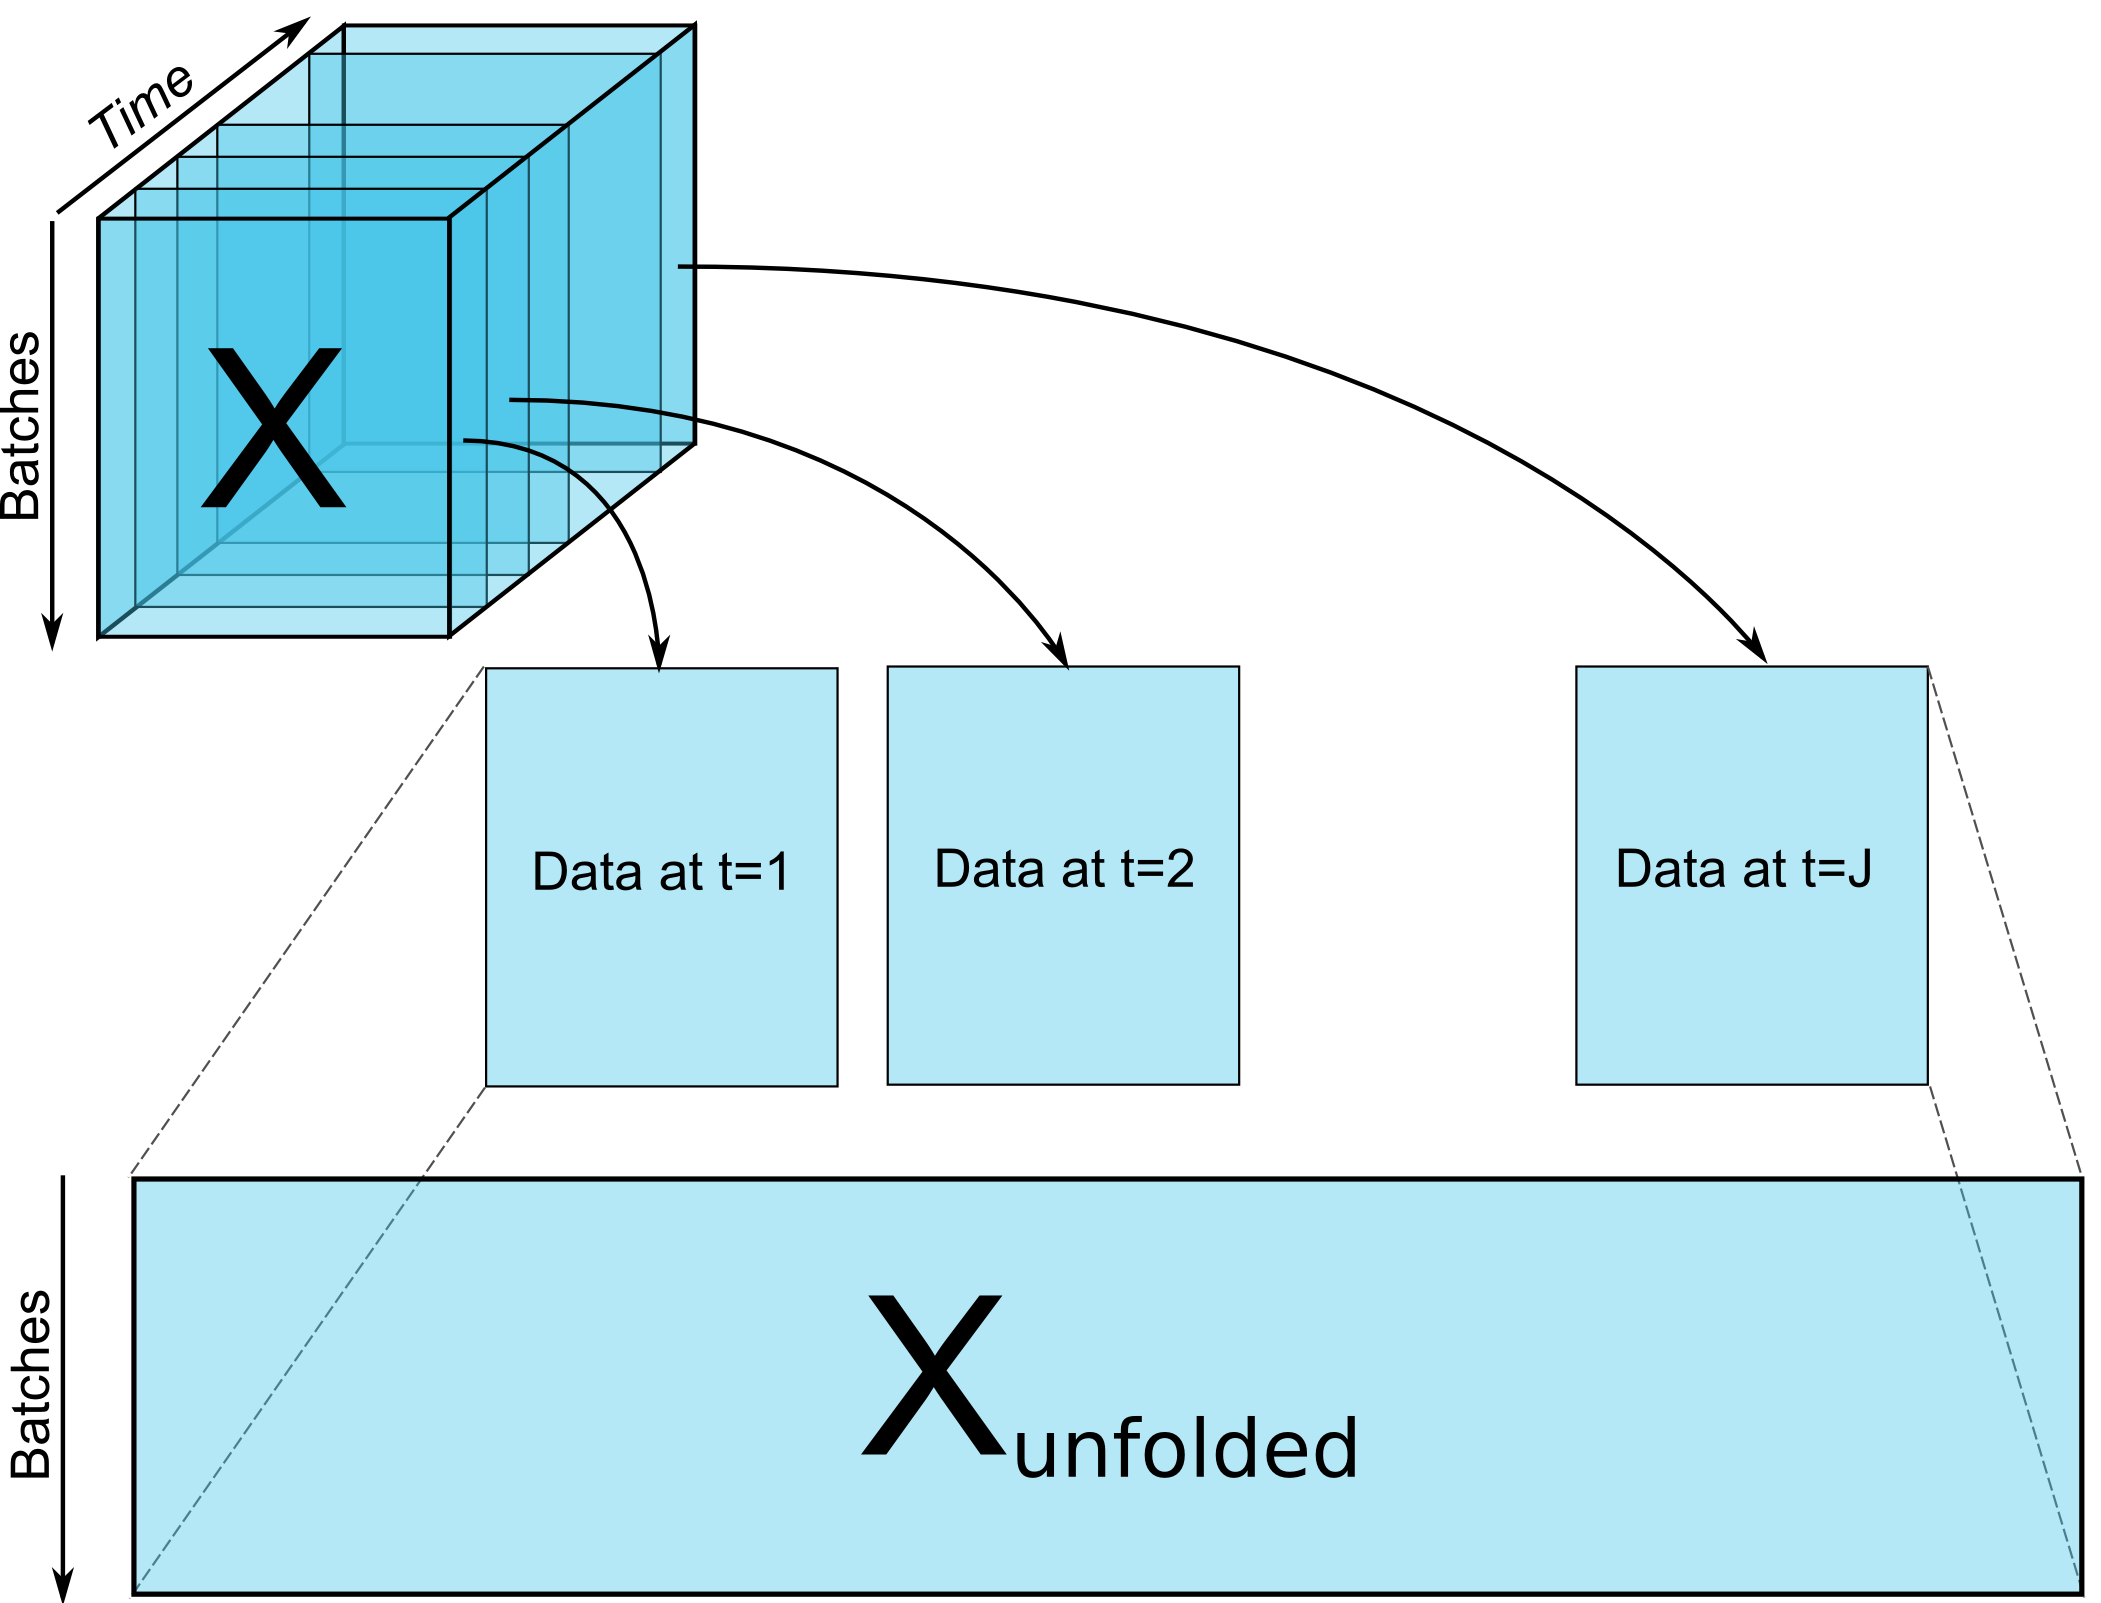
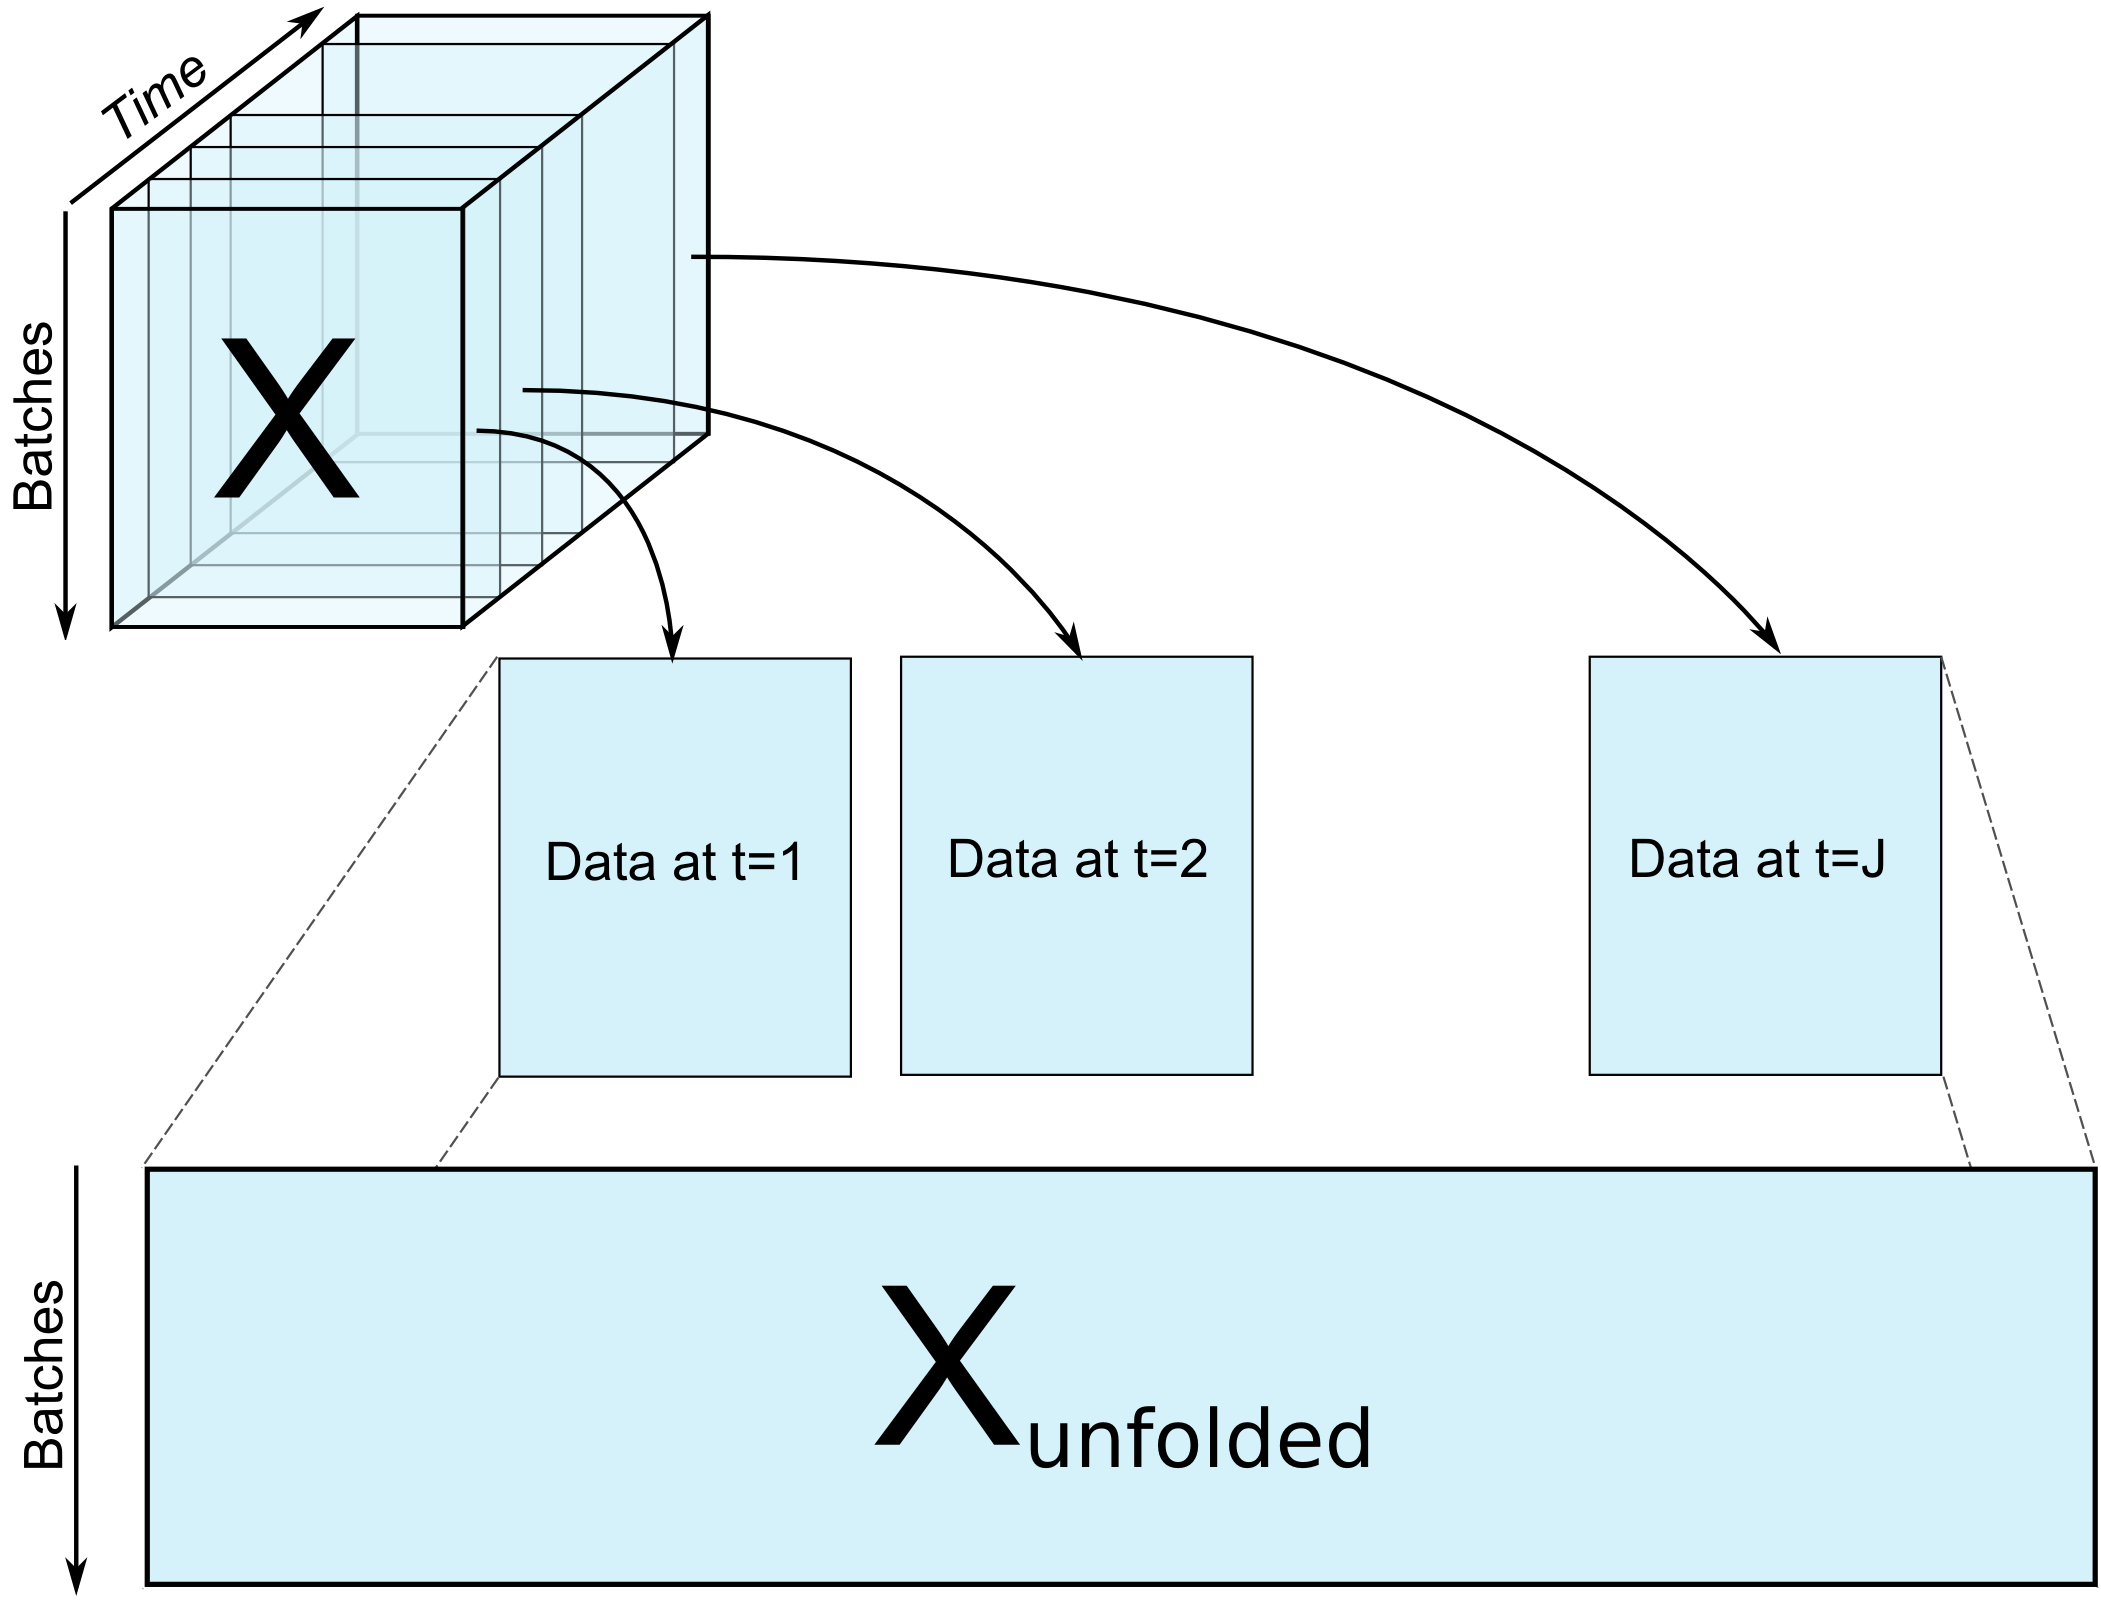
Started working on DuPont example; will break .tex file into pieces next.

diff --git a/batch-course.tex b/batch-course.tex
@@ -726,7 +726,7 @@ MATLAB can handle all the formats shown above.
 \end{exampleblock}
 	
 \begin{center}
-\includegraphics[width=6cm]{images/batch-system.png}	
+	\includegraphics[width=6cm]{images/batch-system.png}	
 \end{center}
 
 \end{frame}	
@@ -801,17 +801,66 @@ MATLAB can handle all the formats shown above.
 
 \begin{frame}\frametitle{Analysis and learning from batch data}
 
-\begin{exampleblock}{Approach}
-Unfold the aligned batch data row wise, one batch per row, and use PCA and PLS directly.
-\end{exampleblock}
+	\begin{exampleblock}{Approach}
+	Unfold the aligned batch data row wise, one batch per row, and use PCA and PLS directly.
+	\end{exampleblock}
 
-\begin{center}
-	\includegraphics[width=6cm]{images/batch-system.png}	
-\end{center}
-
+	\begin{center}
+		\includegraphics[width=8cm]{images/batch-data-unfolding-X-only.png}	
+	\end{center}
 \end{frame}	
 
+\begin{frame}\frametitle{DuPont Nylon example: learning from new data}
 
+	\begin{itemize}
+		\item	Industrial data set of \( N = 55 \) batches from Nylon production
+		
+		\item	Temperature, pressure and flow rate variables: \( K = 10\)  batch tags
+		
+		\item	Batch duration about 2 hours (\( J=100 \) time intervals)
+		
+		\item	12 hours before lab values returned: batch-to-batch adjustment not possible
+		
+		\item	Known problems with batches: 40, 41, 42, 50, 51, 53, 54, 55
+	\end{itemize}
+	
+	
+\end{frame}
+
+\begin{frame}\frametitle{DuPont Nylon example: raw data}
+	{\color{myGreen}{Note}}: data were scaled for confidentiality
+	\begin{center}
+		\includegraphics[width=\textwidth]{images/dupont/dupont-raw-data-trajectories.png}
+	\end{center}
+	
+	\vspace{1cm}
+	\begin{itemize}
+		\item	Can see a few unusual batches: ``Temp-C1'' and ``Press-1''
+		
+		\item	Alignment looks pretty good (process is well controlled)
+		
+		\item	Some regions are noisy: ``Flow-1'' and ``Flow-2''
+	\end{itemize}
+
+\end{frame}
+
+
+
+\begin{frame}\frametitle{DuPont Nylon example: Summary}
+	
+\begin{enumerate}
+	\item	Plot the trajectories
+	
+			\begin{itemize}
+				\item	Sometime outlier batches already detectable
+				
+				\item	Visualize how good your alignment is: do data need extra pretreatment?
+			\end{itemize}
+\end{enumerate}
+
+
+	
+\end{frame}
 
 %-------------------------------------------------
 \section{Batch monitoring}
